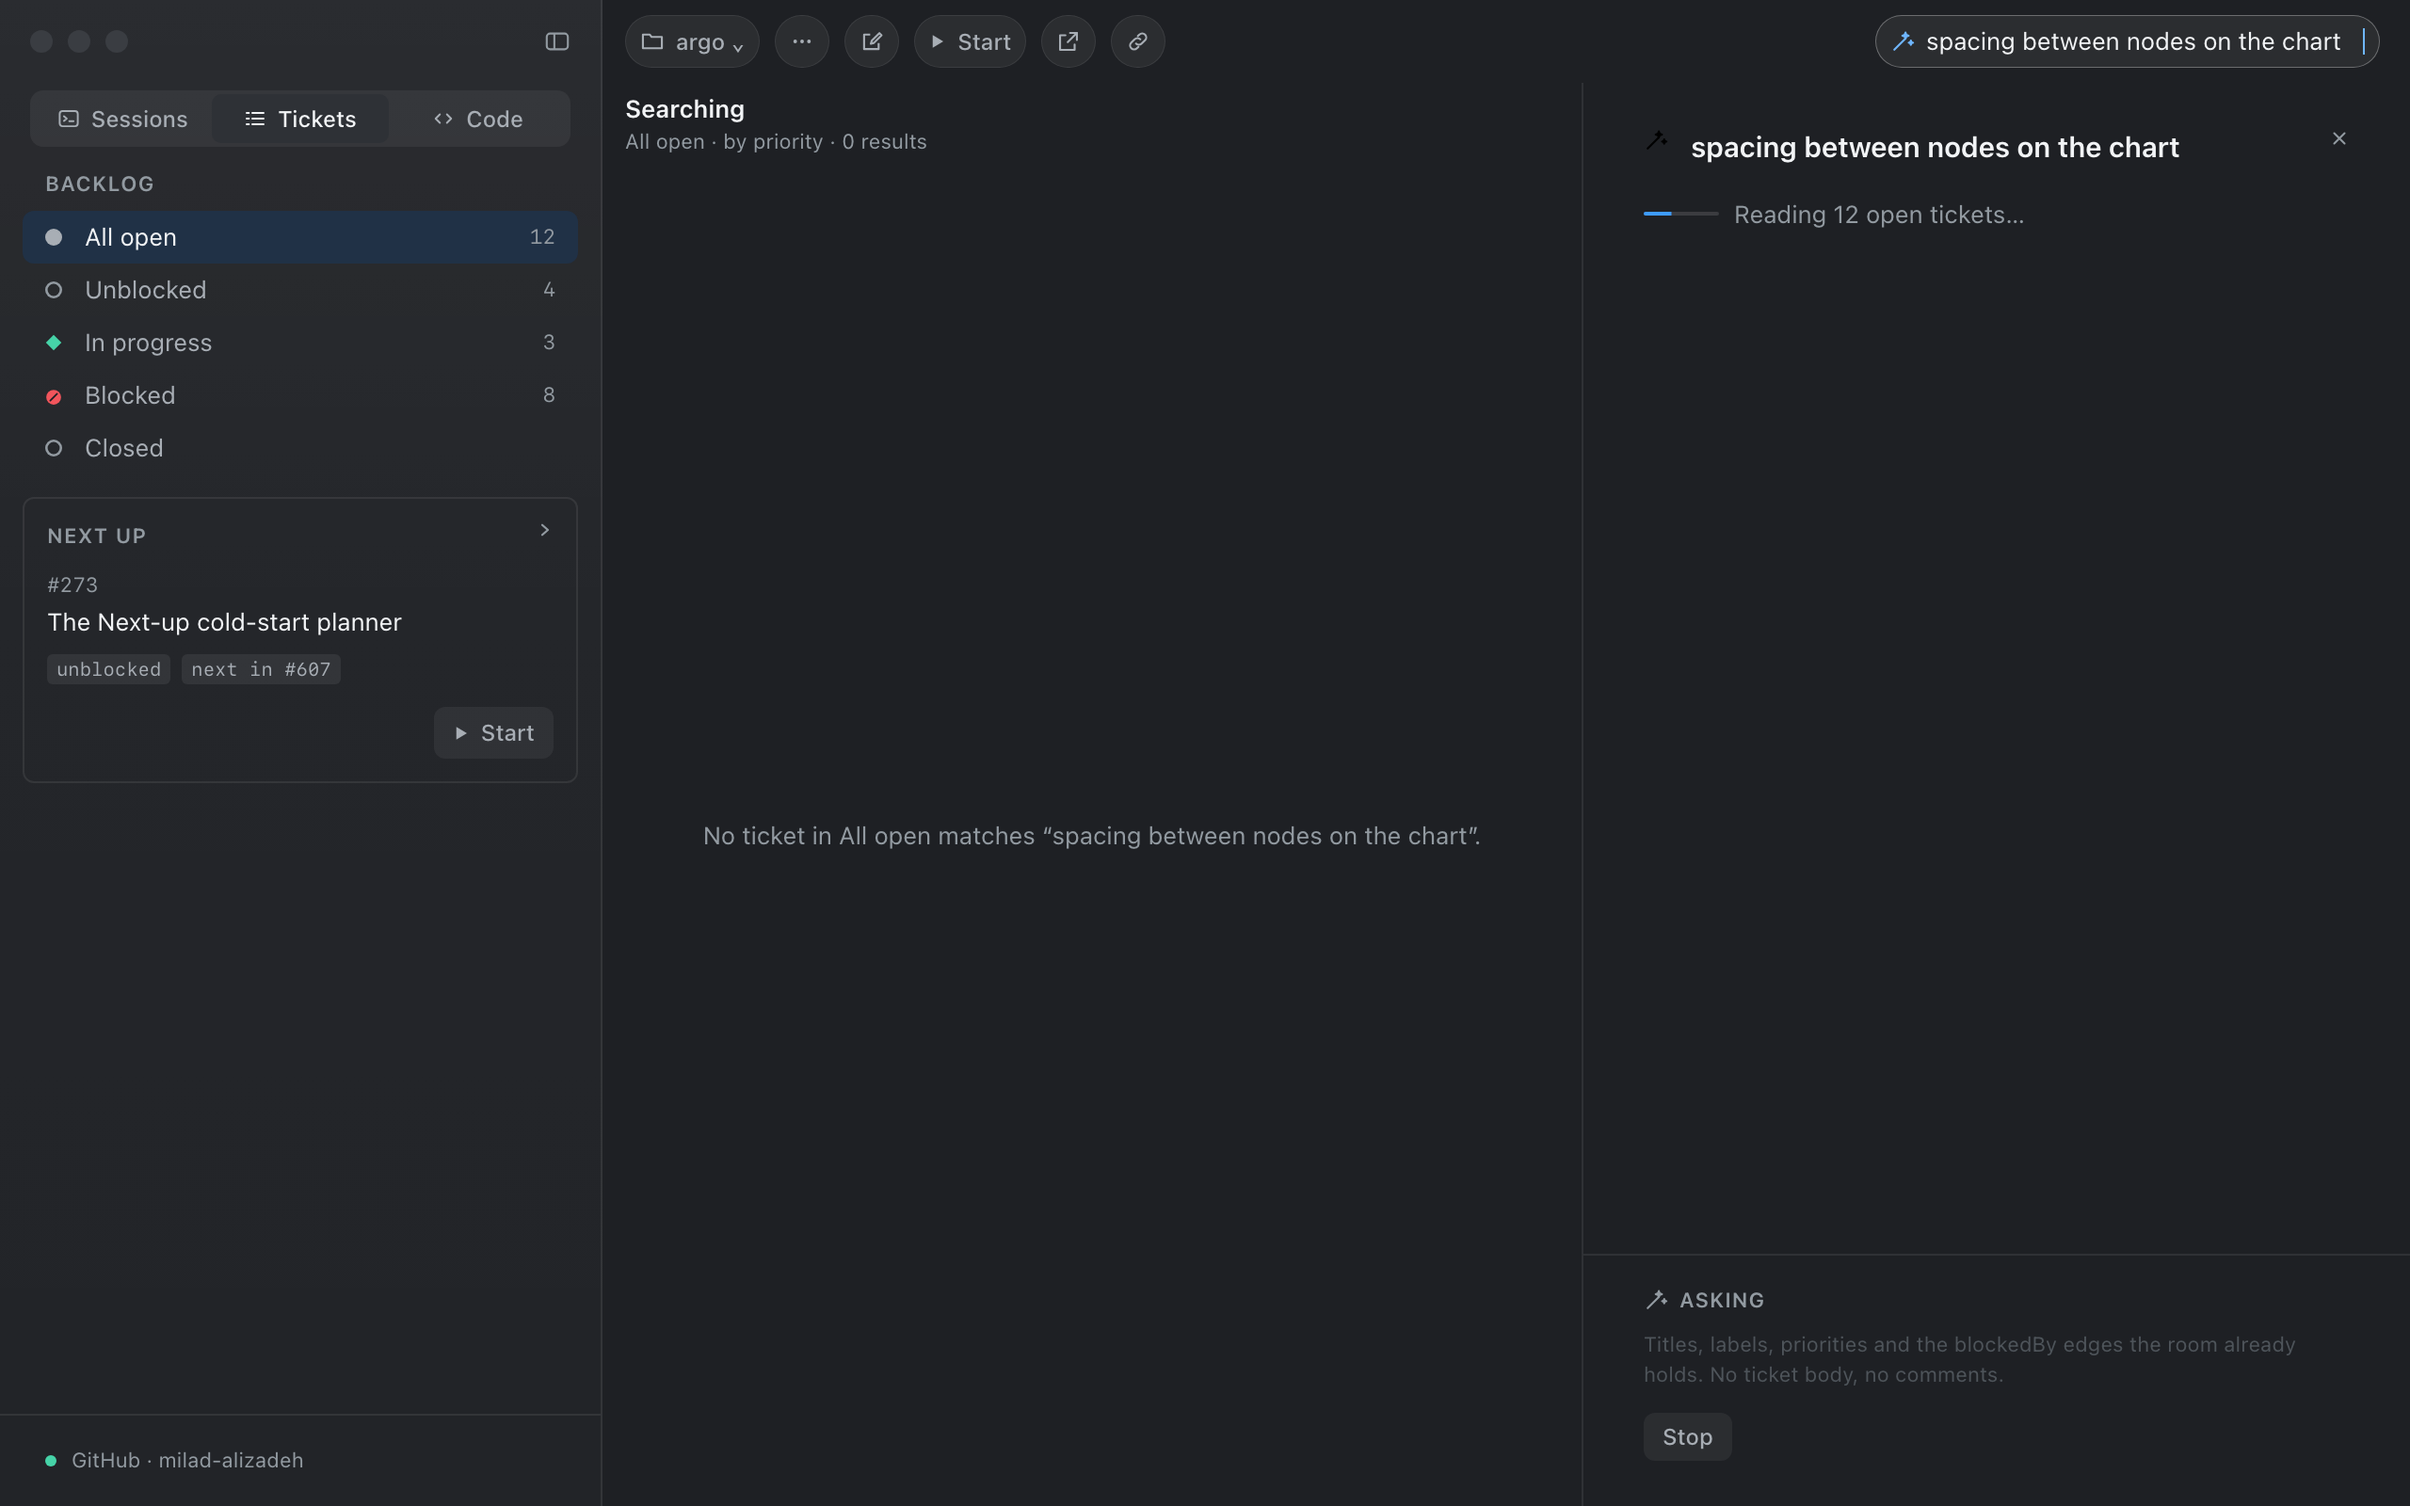
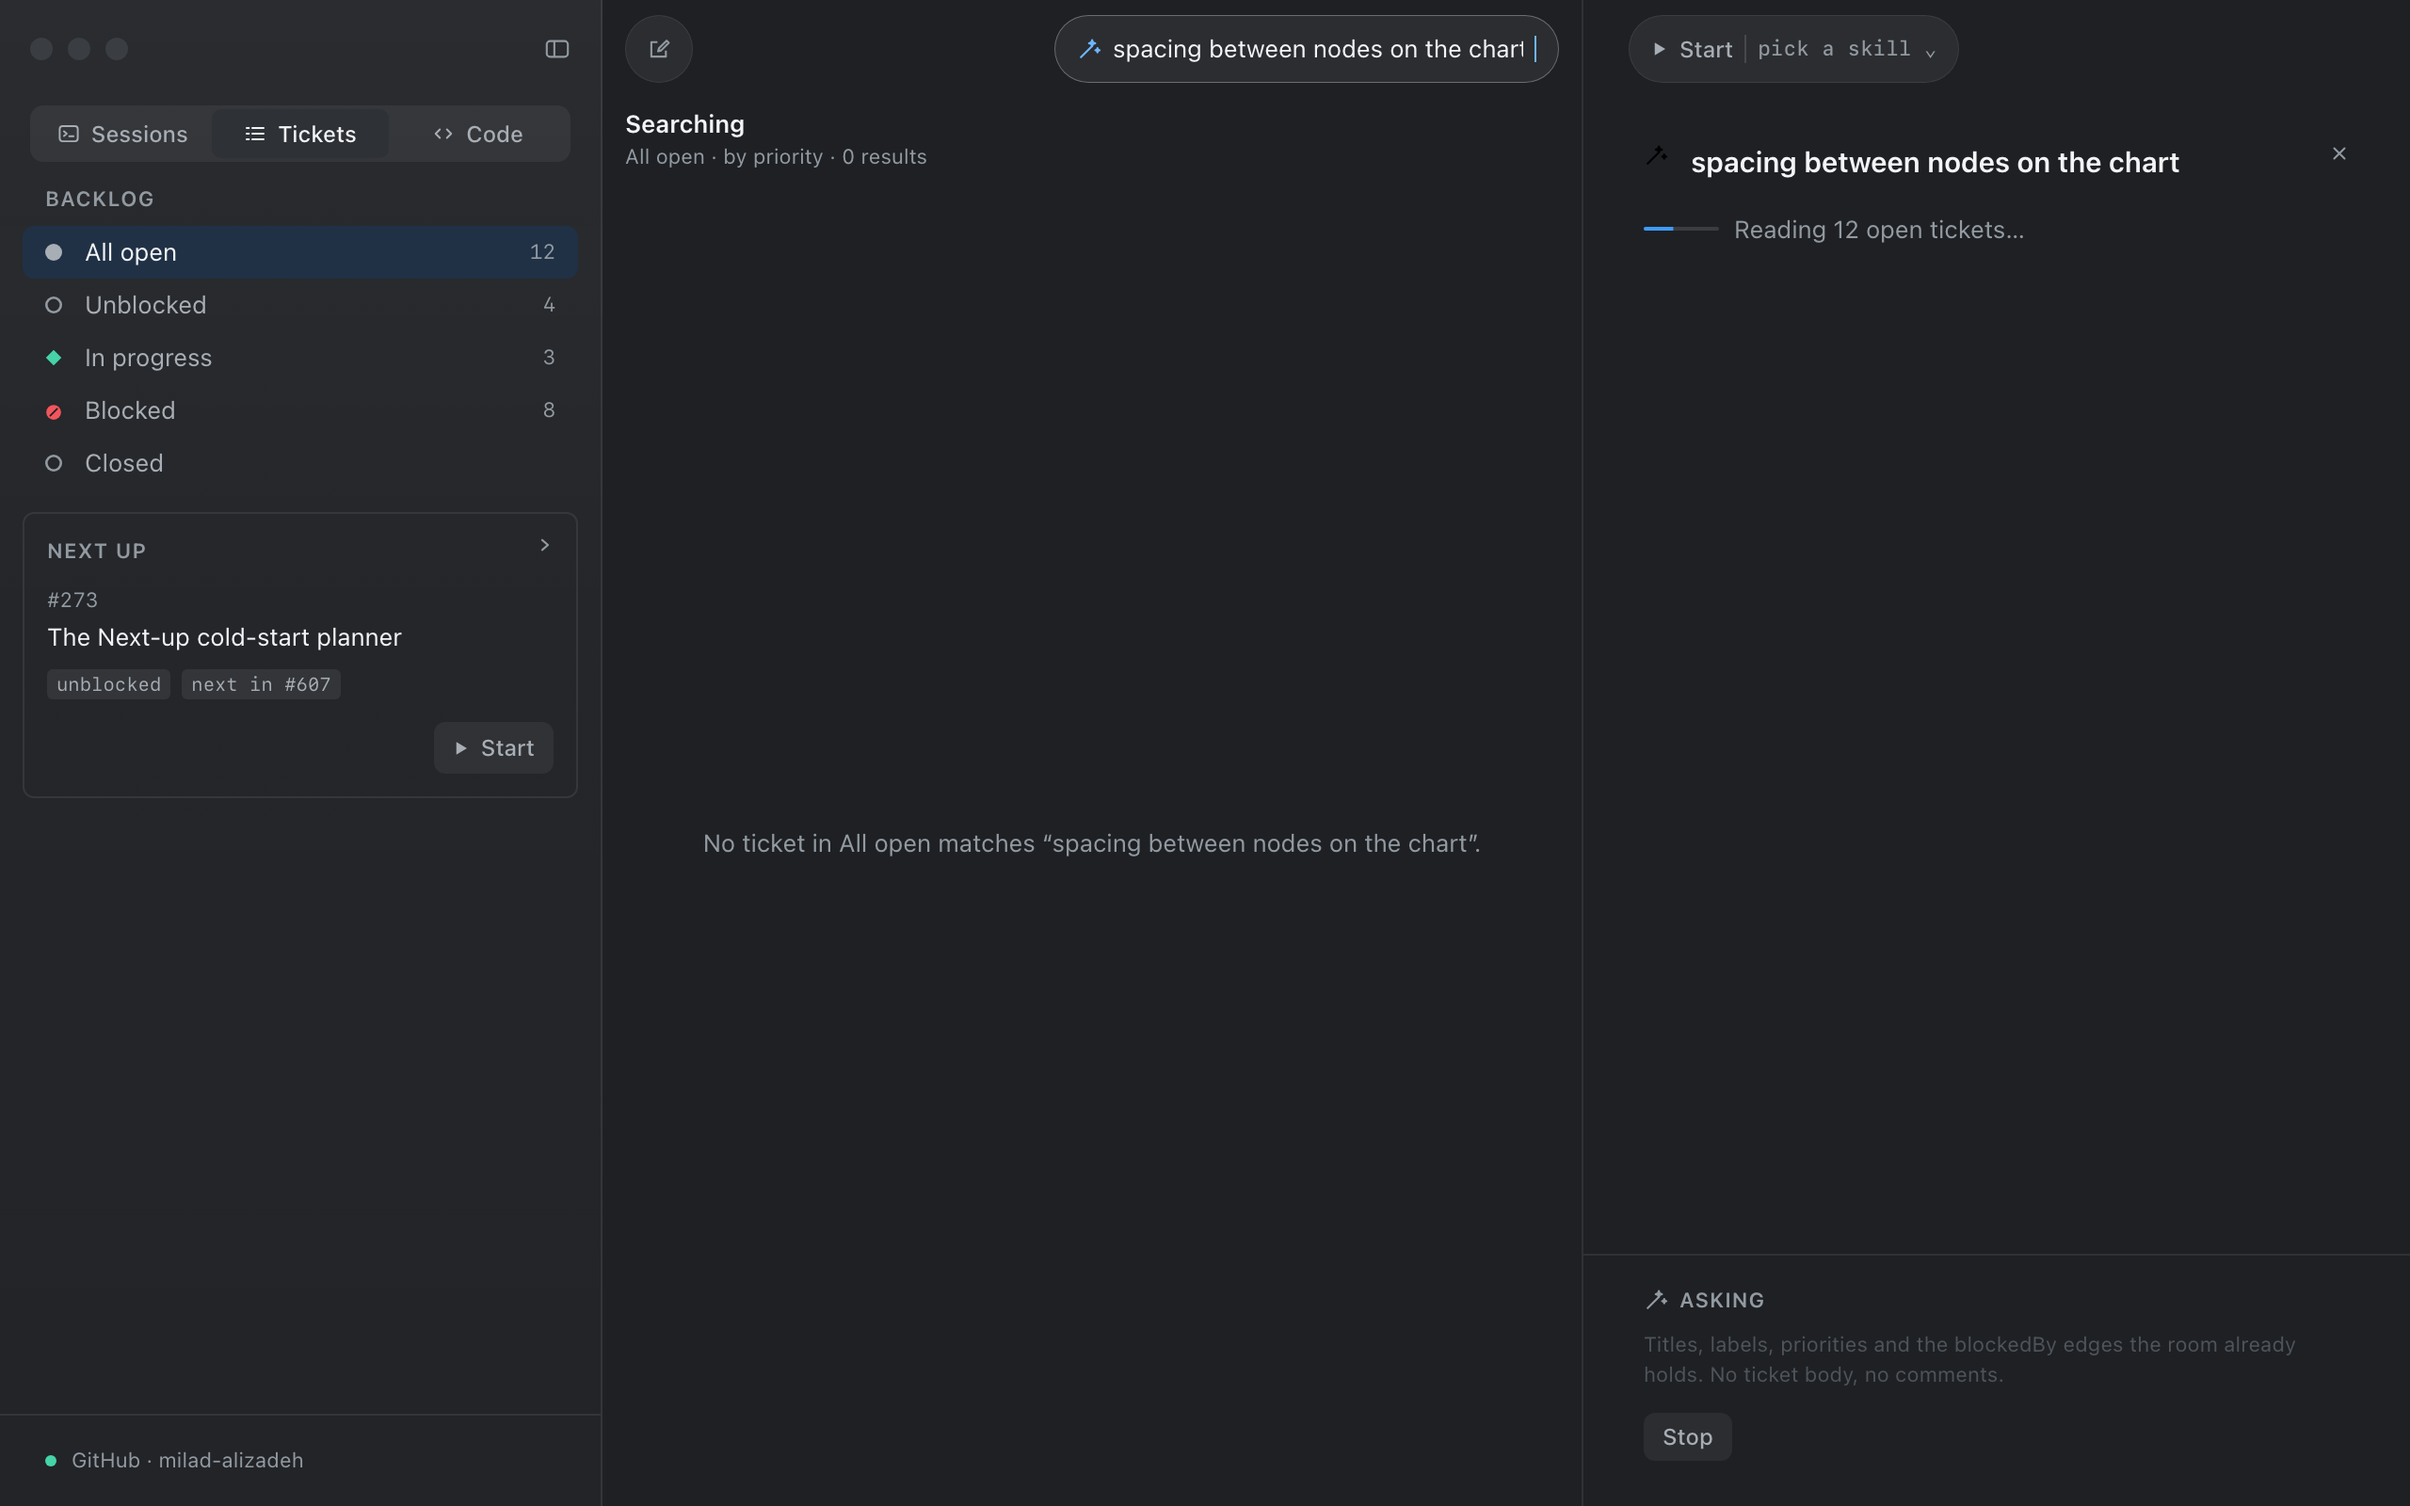
Re-base the asking surface onto the per-pane bands (#1242)
#1302 landed while this was open and moved everything around this surface. The
window-wide row of controls is gone: each pane draws the controls that act on it,
on a band inside the window's own strip.

What that changes here:

- The chrome is redrawn as three bands. New ticket at the list pane's leading
  edge and the field at its trailing one; Start and the skill picker on the
  ticket pane's; nothing on the sidebar's.
- askWidth is re-derived. The field's trailing edge is the list pane's now, and
  the pane is draggable, so the binding case is its floor rather than the 1280
  window. 342 less the band's two insets, New ticket's vessel and a gap leaves
  274, and the field asks for 268. Six points of margin is thin, so the rule is
  min(268, what the pane affords) rather than a flat number. The value survived;
  the arithmetic behind it shares no term with the old one.
- The field is ArgoControlBox.vessel tall, not a 28 of its own.
- The sheet stops at the ticket pane's band instead of covering the pane. #1242
  put the ticket's verbs there, and an answer that covered them would take Start
  away to show a ticket you cannot start.
- The ticket's number draws as the link, so the detail's #272 is accent here.

Nothing inside the asking surface changed. Found rather than switched to, Search
keeping the return key, prose on a sheet, the read line, the dead citation, the
refused results count, the query rule, which Account pays, the narrows gate — all
[…]

diff --git a/docs/designs/cockpit-backlog-question.md b/docs/designs/cockpit-backlog-question.md
@@ -22,10 +22,13 @@ notes in `docs/designs/prototypes/backlog-question-prototype.md`.
 This file covers the asking surface **only**. The room around it in the HTML is drawn to what
 the app **ships today**, not to `cockpit-work-room.html`.
 
-> **`cockpit-work-room.html` is stale on this exact region.** It puts the two-line heading in
-> the window's toolbar row (#836 moved it into the list pane), draws a Filter button (#900
-> deleted the funnel) and a Mode chevron on Start (#1232), puts Next-up in the deck rather than
-> the sidebar, and never draws a query at all (#873 added one). Re-basing it is #1304.
+> **`cockpit-work-room.html` is stale on this exact region, and #1242 widened the gap.** It draws
+> one window-wide row of controls; the app now gives every pane its own band inside the window's
+> strip. It draws a Filter button (#900 deleted the funnel), a Mode chevron on Start (#1232), and
+> the two link verbs (#1242 cut them — the ticket's number is the link). It puts the two-line
+> heading in that row (#836 moved it into the pane) and Next-up in the deck (it is in the
+> sidebar). It never draws a query at all (#873 added one). Re-basing it is #1304, and this
+> design's own chrome was corrected against `ARGO_SPECIMEN=ticketsRoom` after #1242 landed.
 > Nothing here approves what that file currently says about the toolbar.
 
 The room's own vocabulary — views, the backlog, the ticket, rails, the stated empty — is that
@@ -46,7 +49,7 @@ Names are frozen: they become component files and ticket titles.
 
 | `data-component` | What it is |
 |---|---|
-| `BacklogSearchField` | the shipped field, amended — it widens and swaps its leading glyph while it holds a question |
+| `BacklogSearchField` | the shipped field, amended — it widens and swaps its leading glyph while it holds a question. It stays at the list pane's trailing edge on `BacklogPaneHeader`, at `ArgoControlBox.vessel` tall |
 | `BacklogAskAffordance` | the two-line offer under the field: Search on `⏎`, Ask on `⌘⏎` |
 | `BacklogAskWait` | the pulse and its sentence, while a model reads |
 | `BacklogAnswerSheet` | the sheet over the ticket pane |
@@ -75,8 +78,14 @@ Every one is reachable by URL, because a state nobody can link to is a state nob
 
 ### The ask is found, never switched to
 
-There is **no new control**. The row of controls stays one row, which is the rule the room
-cannot break, and a reader who never notices this feature has lost nothing at all.
+There is **no new control**. The list pane's band keeps exactly what #1242 put on it — New
+ticket at the leading edge, the field at the trailing one — and the asking surface adds nothing
+beside them. A reader who never notices this feature has lost nothing at all.
+
+That argument got *stronger* under #1242, not weaker. The band is now scoped to one pane and
+holds almost nothing, so the room's rule is sharper than "one row": **a control sits at the
+leading edge of the pane it acts on, a field at the trailing edge of the pane it searches.** A
+wand would have had to be a second mark on a band that deliberately carries one.
 
 The field notices the text has stopped looking like a term and offers the ask underneath it.
 **Search keeps `⏎`.** The ask takes `⌘⏎`. The default never moves, so a reader who types a
@@ -93,11 +102,32 @@ when the text stops being a question. It never animates and never flickers withi
 
 ### The field widens, and only while it asks
 
-`210 → 268`, over `ArgoMotion.stateChange`. 268 still clears the trailing edge at the 1280
-window, which is the same arithmetic that set 210.
+`210 → 268`, over `ArgoMotion.stateChange`.
+
+**268 is derived at the list pane's FLOOR, not at the 1280 window.** #1242 moved the field out of
+the window's row and onto the list pane's own band, so the edge it has to clear is the pane's,
+and the pane is draggable. The binding case is `ArgoLayout.backlogWidths.lowerBound`:
+
+```
+342   ArgoLayout.backlogWidths.lowerBound — 960 − 280 − 320 − 9×2
+− 12  the band's leading inset (ArgoBacklogList.bandInsetX)
+− 36  New ticket's vessel (ArgoControlBox.vessel)
+−  8  the minimum gap between them (ArgoSpacing.base)
+− 12  the band's trailing inset
+─────
+274   and the field asks for 268, with 6 to spare
+```
+
+Six points of margin is thin, so the rule is **`min(268, what the pane affords)`** rather than a
+flat 268. Below the floor there is no pane to afford anything, and above it nothing more is
+wanted: a field wider than 268 is a field a reader stops reading as a field.
 
 **The tail of the question stays visible**, not the head: the caret is at the tail, and a field
 that showed you the part you are not editing is a field showing you the wrong half.
+
+**The field is `ArgoControlBox.vessel` tall (36), not a 28 of its own.** #1242 made that true for
+the shipped field — a field is a container on this band like any other, and its own height made
+the band three heights of container.
 
 ### The answer is prose, on a sheet over the ticket pane
 
@@ -106,8 +136,12 @@ the thing they were looking for. Not a popover — three sentences fill one at 3
 is regularly longer. The ticket pane already holds prose, and it is the pane a reader searching
 the backlog has stopped reading.
 
-**The cost is real:** the open ticket goes behind the sheet, so comparing the two means closing
-one. That is the trade this design accepts.
+**The sheet covers the pane's content, never its band.** #1242 put the ticket's verbs on that
+band, so a sheet drawn over the whole pane would take `Start` away in order to show you a ticket
+you cannot start. The band stands and the answer sits under it.
+
+**The cost is real:** the open ticket's body goes behind the sheet, so comparing the two means
+closing one. That is the trade this design accepts.
 
 **Rows are the follow-through, not the answer.** Pressing a citation selects the row. The
 prototype's variant D made rows the whole answer and could only ever answer *which tickets* —
@@ -217,11 +251,12 @@ Surface measures, not tokens — per `rules/swift.md` they live beside the surfa
 
 | Measure | Value | Where it goes | Why |
 |---|---|---|---|
-| `askWidth` | `268` | `ArgoTicketsChrome` | the field while it holds a question; the widest that still clears the trailing edge at 1280 |
-| affordance width | `= askWidth` | `BacklogAskAffordance` | it is the field's own footprint, so it aligns to the field rather than to the window |
+| `askWidth` | `min(268, pane affords)` | `ArgoTicketsChrome` | the field while it holds a question; 268 is what fits beside New ticket at the list pane's floor of 342, with 6 to spare |
+| affordance width | `= the field's` | `BacklogAskAffordance` | it is the field's own footprint, so it aligns to the field and moves with the pane's seam, never to the window |
 | affordance row | `⏎` / `⌘⏎` | `BacklogAskAffordance` | Search keeps the default key |
 | wait bar | `40 × 2` | `BacklogAskWait` | a bar, not a spinner: it sits inline in a sentence |
-| sheet insets | `24 / 32` (`section` / `region`) | `BacklogAnswerSheet` | the ticket pane's own insets, because the sheet stands in for that pane |
+| sheet insets | `24 / 32` (`section` / `region`) | `BacklogAnswerSheet` | the ticket pane's own insets, because the sheet stands in for that pane's content |
+| sheet's top edge | under `TicketsPaneHeader` | `BacklogAnswerSheet` | the band stays, so `Start` is never covered by an answer |
 | sheet rise | `ArgoMotion.stateChange` | `BacklogAnswerSheet` | 0.18s easeOut, exact |
 | pulse | `ArgoMotion.working` | `BacklogAskWait` | the token for an indeterminate wait |
 
@@ -257,6 +292,31 @@ contract does not change.**
   reads. It does not promise what a model would say.
 - **Latency is drawn at one value.** `2.4s` is plausible, not measured. What the design fixes is
   that the elapsed time is *stated*, not what it is.
+
+## What #1242 changed, and what survived it
+
+This design was approved against the room before #1242 (#1302) and re-based onto it. Recorded
+because a reader coming from the PR will see both.
+
+**Changed:**
+
+- The window-wide row of controls is gone. Three per-pane bands, drawn *inside* the window's
+  strip, so no pane loses a line. The design's chrome was redrawn.
+- `askWidth`'s derivation is completely different: the field's trailing edge is the list pane's,
+  not the window's. The number came out at 268 again, from arithmetic that shares no term with
+  the old one.
+- The field is `ArgoControlBox.vessel` (36) tall, not 28.
+- The sheet stops at the ticket pane's band instead of covering the pane, so `Start` survives an
+  open answer.
+- The ticket's number draws as the link, so the ticket detail's `#272` is accent-coloured here.
+
+**Survived unchanged:** every decision about the asking surface itself — found not switched to,
+Search keeps `⏎`, prose on a sheet, the read line, the dead citation, the refused `results`
+count, the query rule, which Account pays, and the `narrows` gate on the empty room.
+
+That is the useful result of the re-base: **#1242 moved everything around this surface and
+nothing inside it.** The one argument it strengthened is the case against a wand — the band it
+would have sat on now deliberately carries one control.
 
 ## Next
 
